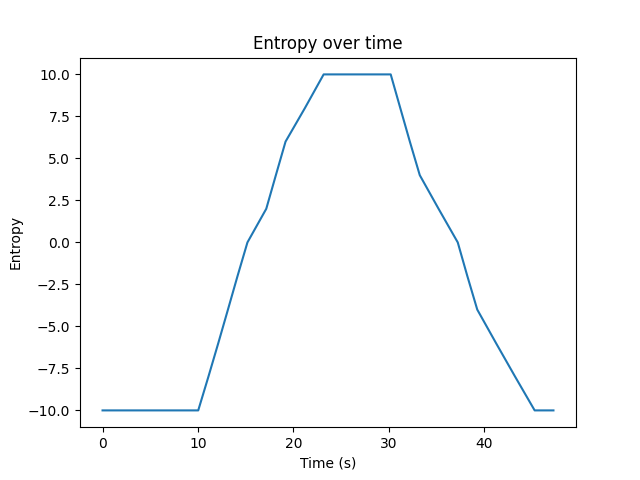
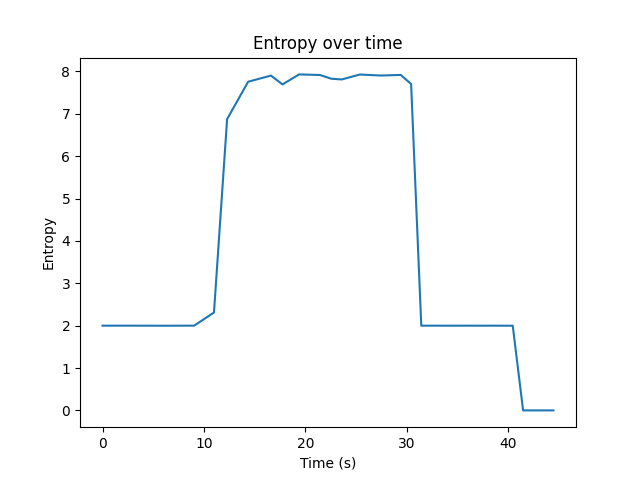
vault backup: 2024-05-28 23:20:24

diff --git a/Network Systems Capstone/Final Report/controller.py b/Network Systems Capstone/Final Report/controller.py
@@ -16,7 +16,7 @@ class AlgorithmType(Enum):
     CUMULATIVE = 2
     TIME_BASED = 3
 
-algo_type = AlgorithmType.TIME_BASED
+algo_type = AlgorithmType.CUMULATIVE
 
 class SimpleSwitch13(app_manager.RyuApp):
     OFP_VERSIONS = [ofproto_v1_3.OFP_VERSION]

diff --git a/Communication and Wireless Control Q7_MUMIMO.md b/Communication and Wireless Control Q7_MUMIMO.md
@@ -1,0 +1,77 @@
+# 1. What is “Multiplexing gain”?
+
+Multiplexing gain is to transmit different data streams over each antenna, increasing the overall data rate.
+
+# 2. What is "Diversity gain"?
+
+Diversity gain is to transmit the same data stream over each antenna to increase the SNR of the single stream.
+
+# 3. What is the (1) Degree of Freedom (DoF) and (2) Diversity of a 4x2 MIMO system?
+
+1. **Degree of freedom**: The maximum number of streams that can be transmitted at the same time. For a $4 \times 2$ MIMO system, the degree of freedom is $2$.
+2. **Maximum diversity**: The number of paths that exists among transmitter and receiver. For a $4 \times 2$ MIMO system, the maximum diversity is $8$.
+
+# 4. Why should the antennas of a MIMO node should be separated by at least half wavelength?
+
+The antenna should be separated by at least half wavelength because we need to ensure the channel dependency. When antennas are separated by a half wavelength, we ensure that the channels are not correlated to each other.
+
+# 5. What does mmWave mean?
+
+"mmWave", or millimeter-wave, refers to 24-100GHz. This frequency range has a huge amount of available bandwidth, but has small wavelength that leads to large path loss.
+
+# 6. List two key properties of mmWave communications.
+
+- The frequencies have a larger available bandwidth.
+- The path loss of this communication is larger.
+
+# 7. Why antenna array (device with a large number of anttena elements) is only practical for mmWave, instead of conventional cmWave spectrum?
+
+The smaller wavelengths of mmWave allow the distance between two MIMO antennas to be smaller, allowing for a more compact design of antenna arrays.
+
+# 8. Define what is “transmit beamforming” and “receive beamforming”, respectively.
+
+Transmit beamforming is a technique that the phases and the relative amplitudes of each transmitting signal are modified to create a pattern of constructive interference in a specific direction.
+
+Receive beamforming is a technique that the receiving signals of each antenna are combined with slightly different delay to make a constructive interference in a specific receiving direction.
+
+# 9. Explain what does “beam scanning” mean.
+
+Beam scanning is a technique to steer the direction of the beam of signals to find the optimal angle of transmitting and receiving. Beam scanning allows the AP and the client to know each others position, and finds the optimal direction to form the beam.
+
+# 10. Compare a 16-antenna and 64-antenna array. Which one can generate a narrower beam?
+
+64-antenna array. More antennas mean that the spatial resolution can be higher, so a narrower beam can be generated.
+
+# 11. Describe what is “digital beamforming” and “analog beamforming”.
+
+Digital beamforming is a technique that each stream is precoded using a calculated wave vector to nullify the interference.
+
+Analog beamforming is a technique to use the antenna array to focus the power along one direction.
+
+# 12. If a transmitter has 2 RF chains and is equipped with a 16-antnena array.
+
+## 12.1. What is the maximum number of parallel streams it can send?
+
+The maximum number of parallel streams is limited by the number of RF chains. Therefore the maximum number of parallel streams is 2.
+
+## 12.2. What are the dimensions of the received signal y, the channel matrix H and precoders Frf and Fbb?
+
+**Digital precoder** $F_{\rm bb}$ maps the data streams to the RF chains, therefore:
+
+$$N_{RF} \times N_s = 2 \times 2$$
+
+**Analog precoder** $F_{\rm rf}$ maps the RF chains to the transmit antennas, therefore:
+
+$$N_t\times N_{RF} = 16 \times 2$$
+
+The receiver has an 8-antenna array, so the dimension of the **received signals** $y$ is:
+
+$$
+8 \times 1
+$$
+
+Given that the receiver has an 8-antenna array, and the transmitter has a 16-antenna array. The **channel** $H$ maps the transmitting signals to the receiving signals, therefore $H$ has a dimension:
+
+$$
+8 \times 16
+$$

diff --git a/Network Planning/HW4_109611066.md b/Network Planning/HW4_109611066.md
@@ -1,0 +1,70 @@
+# Question 1
+
+## 1. 
+
+Source MAC: 00:00:00:00:0A:02
+Destination MAC: 00:00:00:00:0B:02
+
+Outer Source IP: 140.113.0.1
+Outer Destination IP: 140.113.0.2
+
+Inner Source IP: 192.168.1.1
+Inner Destination IP: 192.168.2.1
+
+## 2.
+
+Source MAC: 00:00:00:00:0B:01
+Destination MAC: 00:00:00:01:0B:01
+
+Source IP: 192.168.1.1
+Destination IP: 192.168.2.1
+
+## 3. 
+
+1. RouterA int1: 192.168.1.254
+2. RouterB int1: 192.168.2.254
+3. PCB: 192.168.2.1
+
+任何有關GRE tunnel的IP位址不會出現，因為GRE會用另一個有最大TTL的IP把原始的封包封裝起來。並且在int轉到GRE的時候TTL並不會減少，因此也不會出現tunnel interface的IP。
+
+# Question 2
+
+如果設定為no preempt，拓樸就不會因為有其他router搶佔而拓樸改變，可以讓網路比較穩定。現有的active router會繼續運行，這樣可以避免因為preempt而導致的連線中斷。
+
+網路情境：
+
+1. R1是active的router，有較高的priority。而R2是standby的router，有較低的priority。
+2. 這時，R1因為一些原因需要重新啟動，R2會變成active。
+3. 在R1重新啟動完後，如果設定為preempt，R1會搶佔成為active router。這時正在進行中的連線就會中斷，讓網路不穩定。但如果設定為no preempt，那本來在進行的連線就不會中斷，因為R2的active不會被搶走。
+
+# Question 3
+
+在router與radius傳輸帳號密碼的時候，這些資訊需要加密。為了達成加密的要求，需要提前設定好一個共享的key，讓發送端可以加密，接收端可以解密。
+
+如果少了這個key，代表發送端與接收端無法加密，帳號密碼就只能以明文傳輸（通常不會這麼做），會有資安的危險。
+
+# Question 4
+
+Subnet mask 可以用來劃分有階層的子網路。Subnet mask 的表示會是一段連續的1，代表固定（不可更動）的部份，接著一段連續的0，代表可以更動的部份。
+
+Wild card則與subnet mask 相反，1代表可以更動的部份，0代表不可更動的部份。並且，wild card的0與1不一定要連續（譬如先0，後1，最後再0，定義IP的頭與尾必須相符），因此可以定義較為複雜的IP地址範圍。
+
+# Question 5
+
+依照規範可以減少接線的混亂和錯誤，並且規範有考慮到雙絞線的設計特性，可以避免干擾。
+
+如果依照自訂的順序連接，雖然兩側的訊號是對的，但是會因為沒有考慮到雙絞線的設計特性造成訊號的品質下降。
+
+# Question 6
+
+`commit-confirm` 可以防止在錯誤設定網路後，導致無法連接設備把網路配置改回來。
+
+設定一些不確定會造成什麼效果的設定時，譬如設置防火牆規則，如果設定錯誤可能會導致自己的電腦沒辦法連線。這時如果用的是 `commit-confirm`，十分鐘後會把設定移除，讓遠端的電腦可以連上路由器繼續設定。
+
+由於有些設定無法在開機的狀態下roll back到本來的狀態，因此vyos會重新開機，確保router的設定回到原本的狀態。
+
+# Question 7
+
+首先，兩邊的switch會先決定誰是leader。這個過程會由System Priority來決定，擁有較低值的switch會成為leader。
+
+leader會依照他的每個Port Priority決定哪個port應該要是active。具有較小Port Priority的port會被選為active。

diff --git a/Network Systems Capstone/Final Report/slide.md b/Network Systems Capstone/Final Report/slide.md
@@ -73,3 +73,27 @@ v_{\rm old} & \text{otherwise}
 \right.
 \end{array}
 $$
+
+---
+
+Basic Entropy
+
+| Paper Results             | Project Results     |
+| ------------------------- | ------------------- |
+| ![[paper-basic.png]]      | ![[basic.png]]      |
+
+---
+
+Cumulative Entropy
+
+| Paper Results             | Project Results     |
+| ------------------------- | ------------------- |
+| ![[paper-cumulative.png]] | ![[cumulative.png]] |
+
+---
+
+Time-Based
+
+| Paper Results             | Project Results     |
+| ------------------------- | ------------------- |
+| ![[paper-time-based.png]] | ![[time-based.png]] |
